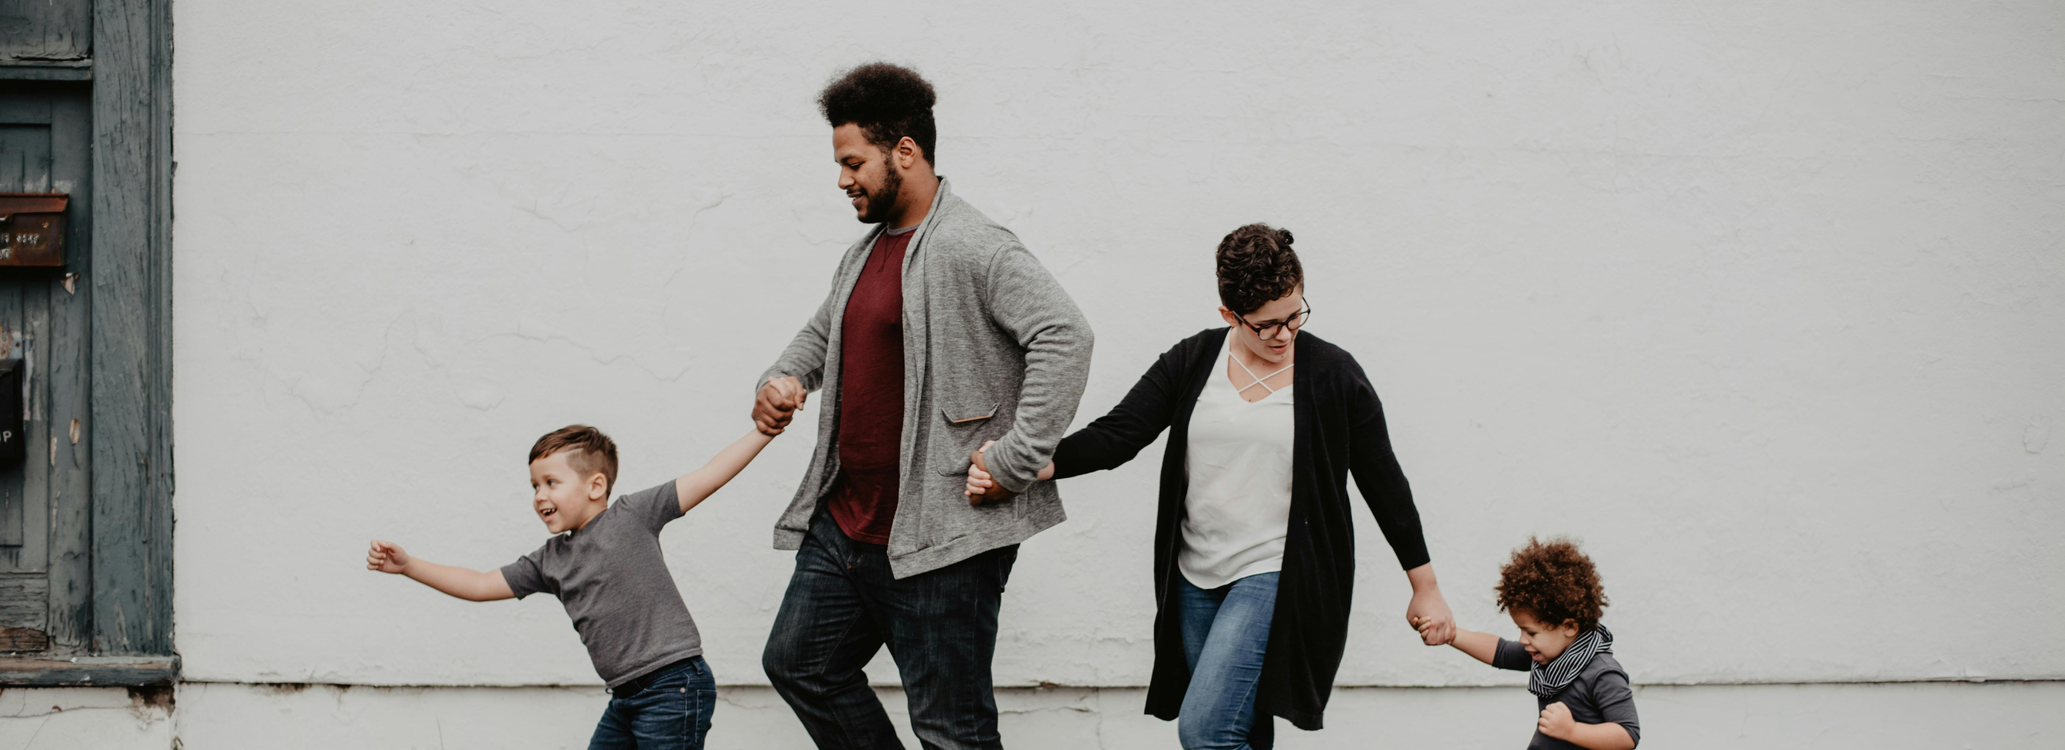
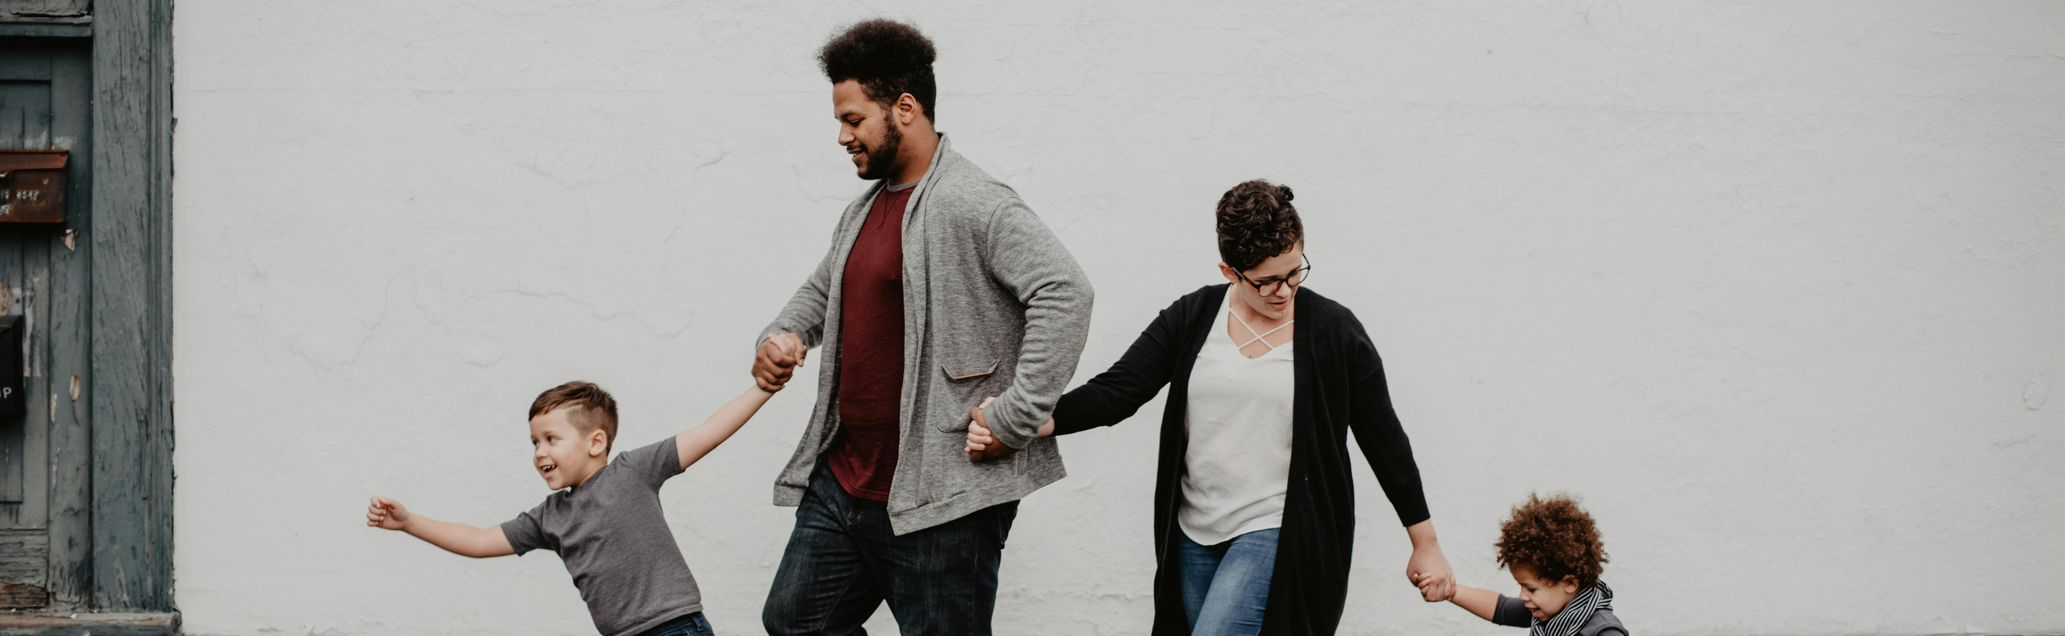
διορθωσεις

diff --git a/src/pages/nannies/SelectionCriteria.jsx b/src/pages/nannies/SelectionCriteria.jsx
@@ -5,7 +5,7 @@ import Footer from '../../components/layout/Footer';
 import EditCalendarIcon from '@mui/icons-material/EditCalendar';
 import PeopleAltIcon from '@mui/icons-material/PeopleAlt';
 import WalletIcon from '@mui/icons-material/Wallet';
-import NannyImage from '../../assets/images/nanny_cropped.jpg'
+import NannyImage from '../../assets/images/nannies.jpg'
 import HelpButton from '../../components/buttons/HelpButton';
 import '../../styles/SelectionCriteria.css'
 
@@ -27,7 +27,7 @@ export default function SelectionCriteria() {
                 <div className='P'>
                     <Favorite id="icons"/>
                     <div>
-                        <p className='text1'>Αγαπάς τα Παιδιά;</p>
+                        <p className='this_text1'>Αγαπάς τα Παιδιά;</p>
                         <p className='text2'>Τώρα μπορείς να προσέχεις παιδιά όταν οι γονείς τους λείπουν 
                             είτε με μερική είτε με πλήρη απασχόληση και να τους προσφέρεις 
                             την αγάπη και την  φροντίδα που χρειάζονται.</p>
@@ -36,7 +36,7 @@ export default function SelectionCriteria() {
                 <div className='P'>
                     <AccountCircleIcon id="icons"/>
                     <div>
-                        <p className='text1'>Δημιούργησε το προφίλ σου</p>
+                        <p className='this_text1'>Δημιούργησε το προφίλ σου</p>
                         <p className='text2'>Είναι πολύ εύκολο να δημιουργήσεις και να δημοσιεύσεις ένα 
                                                 προφίλ, ώστε να ξεκινήσεις να προσέχεις παιδάκια. 
                                                 Βήμα προς βήμα θα συμπληρώσεις τις απαραίτητες 
@@ -51,7 +51,7 @@ export default function SelectionCriteria() {
                 <div className='P'>
                     <EditCalendarIcon id="icons"/>
                     <div>
-                        <p className='text1'>Κλείσε τα Ραντεβού σου</p>
+                        <p className='this_text1'>Κλείσε τα Ραντεβού σου</p>
                         <p className='text2'>Μετά τη δημιουργία του προφίλ σου, 
                             μπορείς εύκολα να προγραμματίσεις τα ραντεβού σου μέσω της πλατφόρμας μας. 
                             Είτε  μέσω τηλεφώνου είτε μέσω βιντεοκλήσης.</p>
@@ -60,7 +60,7 @@ export default function SelectionCriteria() {
                 <div className='P'>
                     <PeopleAltIcon id="icons"/>
                     <div>
-                        <p className='text1'>Κλείσε την συμφωνία σου</p>
+                        <p className='this_text1'>Κλείσε την συμφωνία σου</p>
                         <p className='text2'>Μόλις βρεις την κατάλληλη για εσένα οικογένεια, 
                             έχεις την δυνατότητα να συνάψεις συμφωνία μαζί τους μέσω της πλατφόρμας μας.</p>
                     </div>
@@ -68,14 +68,14 @@ export default function SelectionCriteria() {
                 <div className='P'>
                     <WalletIcon id="icons"/>
                     <div>
-                        <p className='text1'>Πώς θα παίρνεις την αμοιβή σου</p>
+                        <p className='this_text1'>Πώς θα παίρνεις την αμοιβή σου</p>
                         <p className='text2'>Η πληρωμή σου γίνεται μέσω της πλατφόρμας και συγκεκριμένα μέσω 
                             voucher που θα καταθέτονται στον λογαριασμό σου κάθε μήνα, 
                             αρκεί να μπαίνεις να επιβεβαιώνεις την παροχή των υπηρεσιών σου.</p>
                     </div>
                 </div>
                 <div className='signIn'>
-                    <p className='text1'>Γίνε μια από τις νταντάδες μας!</p>
+                    <p className='this_text1'>Γίνε μια από τις νταντάδες μας!</p>
                     <button className='signInButton' onClick={handleSignUp}>Εγγραφή!</button>
                 </div>
                 <Footer/>

diff --git a/src/pages/parents/SelectionCriteriaParents.jsx b/src/pages/parents/SelectionCriteriaParents.jsx
@@ -27,7 +27,7 @@ export default function SelectionCriteriaParents() {
                 <div className='P'>
                     <Favorite id="icons"/>
                     <div>
-                        <p className='text1'>Βρες τη νταντά σου!</p>
+                        <p className='this_text1'>Βρες τη νταντά σου!</p>
                         <p className='text2'>Mπορείτε τώρα να εντοπίσετε 
                                         έμπιστες νταντάδες που έχουν αξιολογηθεί και εγκριθεί.
                                          Απλώς αναζητήστε σύμφωνα με τις ανάγκες της οικογένειάς σας
@@ -37,7 +37,7 @@ export default function SelectionCriteriaParents() {
                 <div className='P'>
                     <AccountCircleIcon id="icons"/>
                     <div>
-                        <p className='text1'>Δημιούργησε το προφίλ σου</p>
+                        <p className='this_text1'>Δημιούργησε το προφίλ σου</p>
                         <p className='text2'>Για να ξεκινήσετε, συμπληρώστε βασικές πληροφορίες σχετικά με 
                                         την οικογένεια και τις ανάγκες σας. Αυτό θα βοηθήσει την πλατφόρμα να σας 
                                         προτείνει τις καλύτερες επιλογές και να διευκολύνει την
@@ -48,7 +48,7 @@ export default function SelectionCriteriaParents() {
                 <div className='P'>
                     <EditCalendarIcon id="icons"/>
                     <div>
-                        <p className='text1'>Κλείσε τα Ραντεβού σου</p>
+                        <p className='this_text1'>Κλείσε τα Ραντεβού σου</p>
                         <p className='text2'>Αφού βρείτε την κατάλληλη νταντά, επικοινωνήστε μαζί της για να συζητήσετε 
                                             τις λεπτομέρειες και να προγραμματίσετε μια συνάντηση γνωριμίας.</p>
                     </div>
@@ -56,7 +56,7 @@ export default function SelectionCriteriaParents() {
                 <div className='P'>
                     <PeopleAltIcon id="icons"/>
                     <div>
-                        <p className='text1'>Υπογράψτε την συμφωνία σου</p>
+                        <p className='this_text1'>Υπογράψτε την συμφωνία σου</p>
                         <p className='text2'>Όλες οι υπηρεσίες είναι διαφανείς και ρυθμίζονται μέσω συμβάσεων που διασφαλίζουν 
                                             τόσο τη δική σας προστασία όσο και της νταντάς.</p>
                     </div>
@@ -64,13 +64,13 @@ export default function SelectionCriteriaParents() {
                 <div className='P'>
                     <WalletIcon id="icons"/>
                     <div>
-                        <p className='text1'>Διατηρήστε τον έλεγχο της φροντίδας των παιδιών σου</p>
+                        <p className='this_text1'>Διατηρήστε τον έλεγχο της φροντίδας των παιδιών σου</p>
                         <p className='text2'>Η πλατφόρμα προσφέρει ασφαλείς και δοκιμασμένες λύσεις για να νιώθετε 
                                     σιγουριά κάθε στιγμή που εμπιστεύεστε τα παιδιά σας σε επαγγελματίες.</p>
                     </div>
                 </div>
                 <div className='signIn'>
-                    <p className='text1'>Βρείτε νταντά κάνοντας εγγραφή!</p>
+                    <p className='this_text1'>Βρείτε νταντά κάνοντας εγγραφή!</p>
                     <button className='signInButton' onClick={handleSignUp}>Εγγραφή!</button>
                 </div>
                 <Footer/>

diff --git a/src/pages/nannies/FirstStep.jsx b/src/pages/nannies/FirstStep.jsx
@@ -4,7 +4,6 @@ import Footer from '../../components/layout/Footer.jsx';
 import HelpButton from '../../components/buttons/HelpButton.jsx';
 import { Row, Col } from 'react-bootstrap';
 import { Select, MenuItem, TextField, InputLabel, FormControl, Button } from '@mui/material';
-import Datepicker from '../../components/layout/Datepicker.jsx';
 import '../../styles/FirstStep.css';
 import { db } from '../../providers/firebaseConfig'; 
 import { collection, addDoc } from "firebase/firestore";
@@ -180,9 +179,15 @@ export default function FirstStep() {
                         </FormControl>
                         </Col>
                         <Col>
-                            <p>Ημερομηνία γέννησης:</p>
-                            <Datepicker name="birthdate" selected={formData.birthdate} onChange={handleDateChange} />
-                            {formErrors.birthdate && <p className="error-text"><span style={{ color: 'red', fontSize: '12px' }}>To πεδίο Ημερομηνία γέννησης είναι υποχρεωτικό</span></p>}
+                            <TextField fullWidth label="Ημερομηνία γέννησης" type="date" name="birthdate" value={formData.birthdate || ''}
+                                onChange={(e) => handleDateChange(e.target.value)} className="my-3"
+                                InputLabelProps={{
+                                    shrink: true, // Κάνει την ετικέτα να εμφανίζεται πάνω από το πεδίο
+                                }}
+                                helperText={formErrors.birthdate ? (
+                                    <span style={{ color: 'red', fontSize: '12px' }}>Το πεδίο Ημερομηνία γέννησης είναι υποχρεωτικό</span>
+                                ) : null}
+                            />
                         </Col>
                         <FormControl fullWidth className="my-3">
                             <InputLabel>Επίπεδο σπουδών~</InputLabel>
@@ -214,9 +219,9 @@ export default function FirstStep() {
                         </FormControl>
                         
                         <p className="paragraph">Τα υπόλοιπα στοιχεία θα συμπληρώνονται αυτόματα από το Taxisnet</p>
-                        <div className='buttons'>
-                            <button type="button" className="button-temp">Προσωρινή Αποθήκευση</button>
-                            <button type="submit" className='button-apply'>Υποβολή</button>
+                        <div className='buttons-pu'>
+                            <button type="button" className="button-temp-pu">Προσωρινή Αποθήκευση</button>
+                            <button type="submit" className="button-apply-pu">Υποβολή</button>
                         </div>
                         <Snackbar open={snackbarOpen} autoHideDuration={6000} onClose={handleSnackbarClose}>
     <Alert onClose={handleSnackbarClose} severity="warning" sx={{ width: '100%' }}>

diff --git a/src/pages/HomePage.jsx b/src/pages/HomePage.jsx
@@ -25,7 +25,7 @@ export default function HomePage() {
           className="d-flex flex-column align-items-center justify-content-center"
         >
           <img id="user-icon" src={userIcon} alt="User Icon" className="mb-3"></img>
-          <p id="p1" className="fw-bold">Βρες τον/την νταντά του παιδιού σου</p>
+          <p className='this_text1'>Βρες τον/την νταντά του παιδιού σου</p>
           <p id="p2">
             Βρες τον/ην νταντά που θα φροντίσει το παιδάκι σου με αγάπη. Δες ποιος\α
             είναι κοντά σου, τι εμπειρία έχει, τι υπηρεσίες προσφέρει και επίλεξε τον/ην
@@ -39,7 +39,7 @@ export default function HomePage() {
           id="col-2"
         >
           <img id="calendar-icon" src={calendarIcon} alt="Calendar Icon" className="mb-3"></img>
-          <p id="p3" className="fw-bold">Επικοινώνησε μαζί του/της & πλήρωσε online</p>
+          <p className='this_text1'>Επικοινώνησε μαζί του/της & πλήρωσε online</p>
           <p id="p4">
             Απλά και εύκολα συνεννοήσου για τη συνάντηση, συμφώνησε και πλήρωσε με το
             voucher ηλεκτρονικά ώστε να απολαύσεις όλα τα προνόμια του ntantades.gov.
@@ -51,9 +51,7 @@ export default function HomePage() {
           className="d-flex flex-column align-items-center justify-content-center"
         >
           <img id="happy-face-icon" src={happyFaceIcon} alt="Happy Face" className="mb-3"></img>
-          <p id="p5" className="fw-bold">
-            Το παιδάκι σου απασχολείται δημιουργικά όσο εσύ δουλεύεις
-          </p>
+          <p className='this_text1'>Το παιδάκι σου απασχολείται δημιουργικά όσο εσύ δουλεύεις</p>
           <p id="p6">
             Ο/Η νταντά θα προσπαθήσει να φροντίσει το παιδάκι σου όπως εσύ. Είναι
             συστηματικά σε επικοινωνία μαζί σου.

diff --git a/src/App.jsx b/src/App.jsx
@@ -7,11 +7,10 @@ import NannyHomepage from './pages/nannies/NannyHomepage';
 import ProfileEditNannies from './pages/nannies/ProfileEditNannies';
 import { Routes, Route, BrowserRouter} from 'react-router-dom';
 import PersonalInfo from './pages/nannies/PersonalInfo';
-import Login from './components/authentication/Login'
-import Test from './pages/test.jsx';
 import FirstStep from "./pages/nannies/FirstStep.jsx"
 import PersonalInfoDone from './pages/nannies/PersonalInfoDone.jsx';
 import SecondStep from './pages/nannies/SecondStep.jsx';
+import SecondStepDone from './pages/nannies/SecondStepDone.jsx';
 import ThirdStep from './pages/nannies/ThirdStep.jsx';
 import SelectionCriteriaParents from './pages/parents/SelectionCriteriaParents.jsx';
 import MeetingNanny from './pages/nannies/MeetingNanny.jsx';
@@ -39,8 +38,8 @@ function App() {
           <Route path="/PersonalInfo" element={<PersonalInfo/>}/>
           <Route path="/PersonalInfoDone" element={<PersonalInfoDone/>}/>
           <Route path="/FirstStep" element={<FirstStep/>}/>
-          <Route path="/test" element={<Test/>}/>                 {/*tipota*/}
           <Route path="/SecondStep" element={<SecondStep/>}/>
+          <Route path="/SecondStepDone" element={<SecondStepDone/>}/>
           <Route path="/ThirdStep" element={<ThirdStep/>}/>
           <Route path="/SelectionCriteriaParents" element={<SelectionCriteriaParents/>}/>
           <Route path="/MeetingNanny" element={<MeetingNanny/>}/>

diff --git a/src/pages/Hourspicker.jsx b/src/pages/Hourspicker.jsx
@@ -1,0 +1,40 @@
+import React, { useState } from "react";
+import '../styles/Hourspicker.css';
+
+const HoursPicker = () => {
+  const [selectedHours, setSelectedHours] = useState([]);
+
+  const hours = Array.from({ length: 24 }, (_, i) => {
+    const hourStart = i === 0 ? '12:00 AM' : `${i}:00`;
+    const hourEnd = i === 23 ? '12:00 AM' : `${i + 1}:00`;
+    return `${hourStart}-${hourEnd}`;
+  }); //Ζευγάρια ωρών
+
+  const handleCheckboxChange = (hour) => {
+    setSelectedHours((prevSelected) =>
+      prevSelected.includes(hour)
+        ? prevSelected.filter((h) => h !== hour) 
+        : [...prevSelected, hour] // Επιλογή - Αποεπιλογή
+    );
+  };
+
+  return (
+    <div className="hours-picker">
+      {hours.map((hour) => (
+        <div key={hour} className="hour-box">
+          <label>
+            <input
+              type="checkbox"
+              value={hour}
+              checked={selectedHours.includes(hour)}
+              onChange={() => handleCheckboxChange(hour)}
+            />
+            {hour}
+          </label>
+        </div>
+      ))}
+    </div>
+  );
+};
+
+export default HoursPicker;

diff --git a/src/styles/FirstStep.css b/src/styles/FirstStep.css
@@ -62,10 +62,6 @@
     color: black;
 }
 
-.buttons{
-    display: flex;
-    justify-content: center;
-}
 
 .paragraph{
     text-align: center;
@@ -78,12 +74,37 @@
     margin-right: 100px;
 }
 
-.button-temp{
-    background-color: orange;
+.buttons-pu {
+    display: flex; 
+    justify-content: center; 
+    align-items: center;
+    gap: 200px; 
+    margin-top: 30px; 
 }
 
-.button-apply{
-    background-color: black;
+.button-temp-pu,
+.button-apply-pu {
+    padding: 15px 50px; 
+    border: none; 
+    border-radius: 40px; 
+    font-size: 18px; 
+    color: white; 
+    cursor: pointer; 
+    transition: all 0.3s ease;
 }
 
+.button-temp-pu {
+    background-color: orange; 
+}
 
+.button-temp-pu:hover {
+    background-color: darkorange; 
+}
+
+.button-apply-pu {
+    background-color: black; 
+}
+
+.button-apply-pu:hover {
+    background-color: #333; 
+}

diff --git a/src/pages/nannies/PersonalInfo.jsx b/src/pages/nannies/PersonalInfo.jsx
@@ -65,9 +65,9 @@ export default function PersonalInfo() {
                             </Select>
                         </FormControl>
                         <p>Όσα πεδία εχουν ~ μπορούν να αλλάξουν</p>
-                        <div className='buttons'>
-                            <button className="button-temp">Προσωρινή Αποθήκευση</button>
-                            <button className="button-apply">Υποβολή</button>
+                        <div className='buttons-pu'>
+                            <button className="button-temp-pu">Προσωρινή Αποθήκευση</button>
+                            <button className="button-apply-pu">Υποβολή</button>
                         </div>
                     </Col>
                 </Row>

diff --git a/src/pages/nannies/SecondStepDone.jsx b/src/pages/nannies/SecondStepDone.jsx
@@ -263,15 +263,7 @@ export default function SecondStep() {
                             <span style={{ color: 'red', fontSize: '12px' }}>Αυτό το πεδίο είναι υποχρεωτικό</span>
                         ) : `Characters: ${wordCount}/${maxWords}`}
                     />
-
-
-
-
-
-                    <div className="buttons-pu">
-                        <button className="button-temp-pu">Προσωρινή Αποθήκευση</button>
-                        <button className="button-apply-pu" onClick={handleSubmit}>Υποβολή</button>
-                    </div>
+                    <button className="button-apply">Οριστική Υποβολή</button>
                 </Row>
             </div>
             <Footer />

diff --git a/src/styles/Hourspicker.css b/src/styles/Hourspicker.css
@@ -1,0 +1,28 @@
+
+.hours-picker {
+    display: grid;
+    grid-template-columns: repeat(6, 1fr); 
+    gap: 10px;
+    padding: 20px;
+}
+
+.hour-box {
+    display: flex;
+    align-items: center;
+    justify-content: center;
+    border: 1px solid #ddd;
+    border-radius: 8px;
+    padding: 10px;
+    background-color: #f9f9f9;
+    text-align: center;
+    font-size: 14px;
+    cursor: pointer;
+}
+
+.hour-box input[type="checkbox"] {
+    margin-right: 8px;
+}
+
+.hour-box:hover {
+    background-color: #e0e0e0; 
+}

diff --git a/src/styles/HomePage.css b/src/styles/HomePage.css
@@ -4,6 +4,14 @@
 
 }
 
+.this_text1 {
+  font-family: Verdana, Geneva, Tahoma, sans-serif;
+  font-size: x-large;
+  font-weight: bold;
+  justify-content: center;
+}
+
+
 .location {
   width: 300px;
   height: 50px;
@@ -68,7 +76,7 @@
 }
 
 #p2, #p4, #p6 {
-  font-size: 20px;
+  font-size: medium;
   font-family: Verdana, sans-serif;
 }
 

diff --git a/src/styles/SelectionCriteria.css b/src/styles/SelectionCriteria.css
@@ -16,6 +16,14 @@
     margin: 0;
 }
 
+.this_text1 {
+    font-family: Verdana, Geneva, Tahoma, sans-serif;
+    font-size: large;
+    font-weight: bold;
+    justify-content: center;
+}
+
+
 .P{
     display: flex;
     flex-direction: row;
